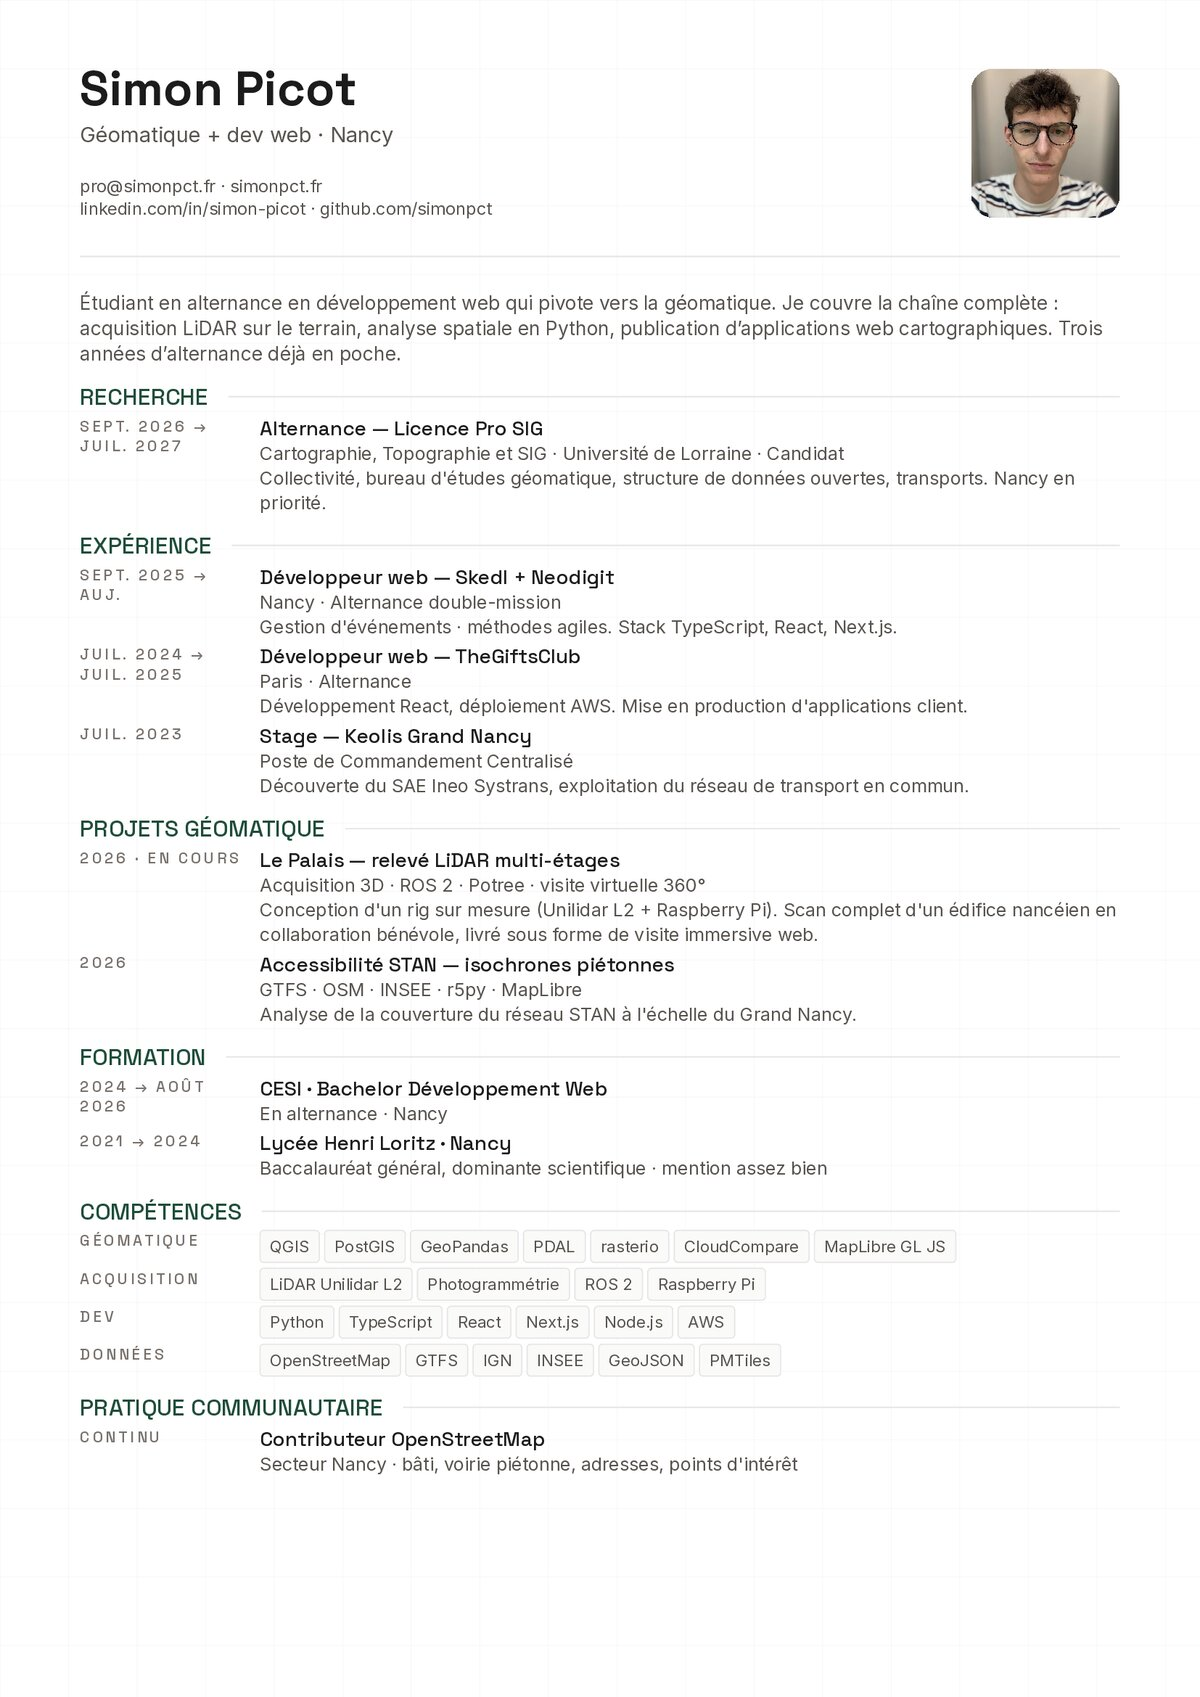
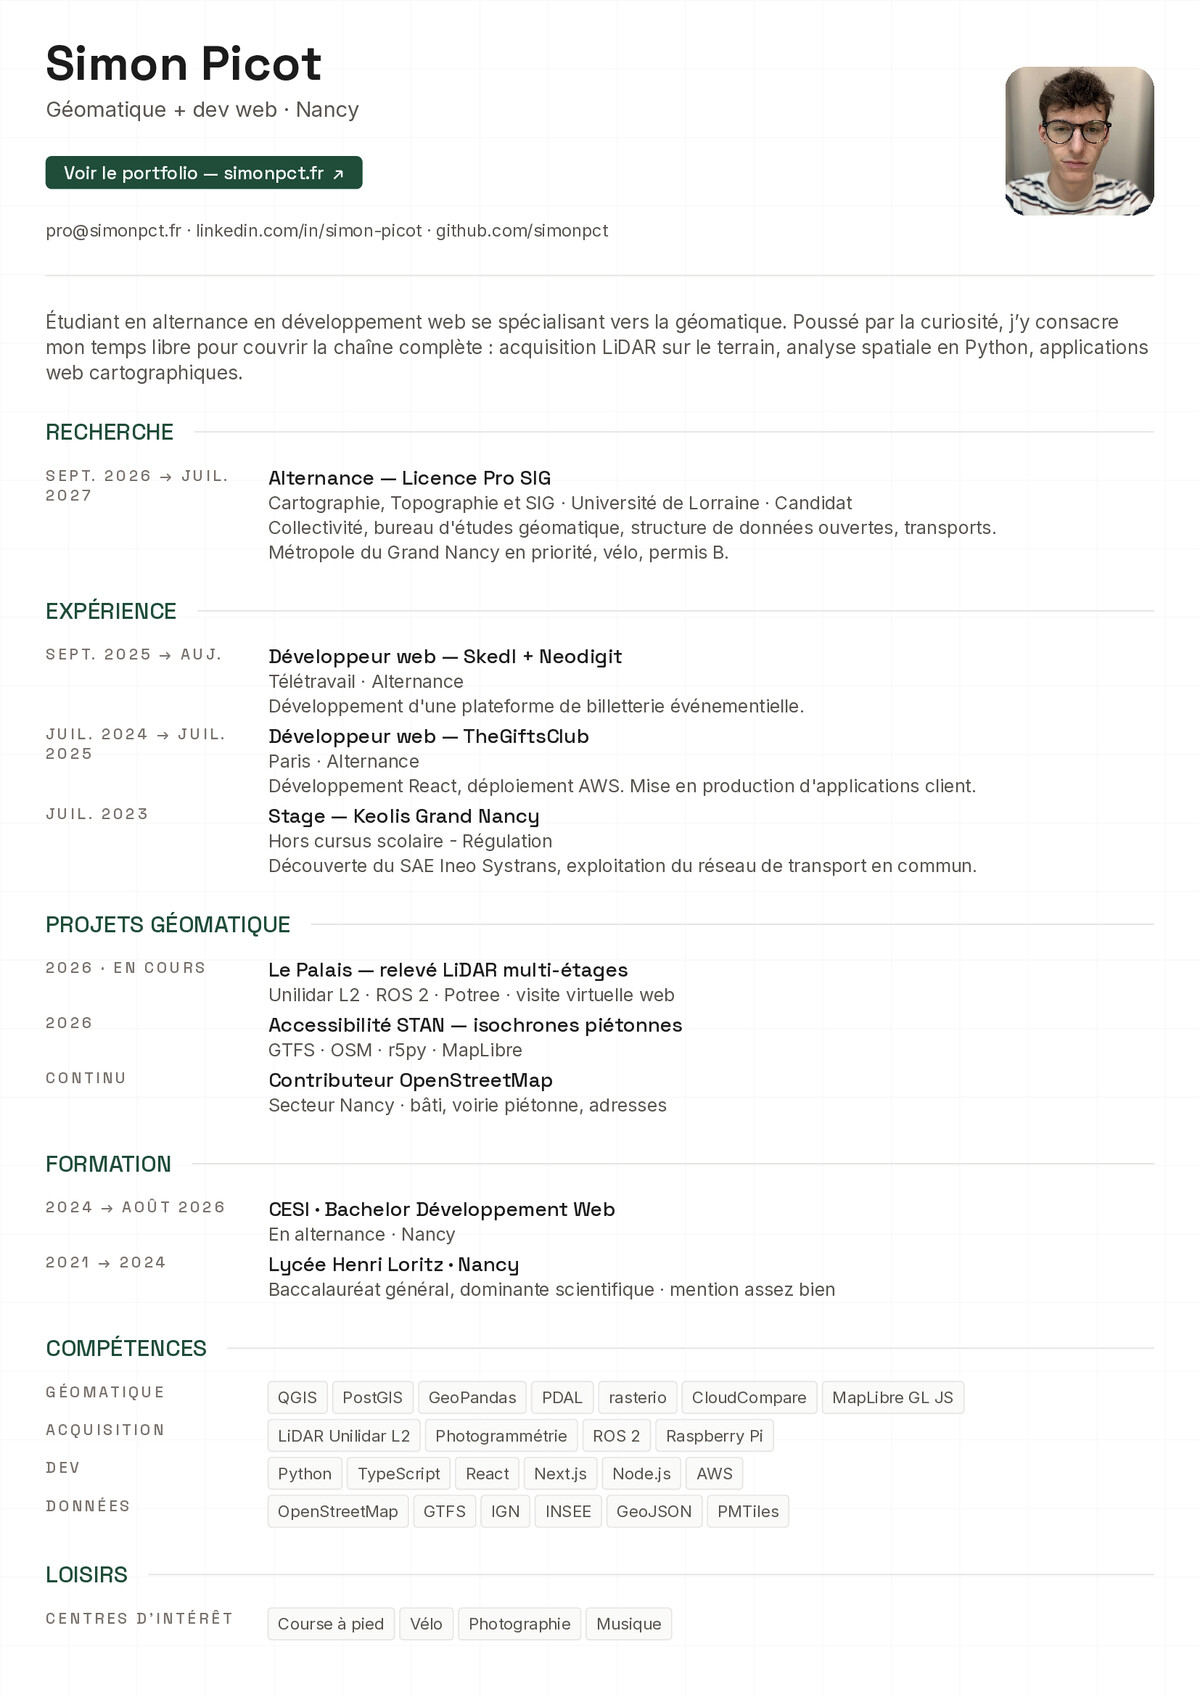
feat: update assets (og+cv preview)

diff --git a/src/app/layout.tsx b/src/app/layout.tsx
@@ -16,10 +16,37 @@ const spaceGrotesk = Space_Grotesk({
   display: "swap",
 });
 
+const siteUrl = "https://simonpct.fr";
+const siteTitle = "Simon Picot — Géomatique + dev web";
+const siteDescription =
+  "Étudiant en géomatique à Nancy. Acquisition LiDAR, analyse spatiale et applications cartographiques web.";
+
 export const metadata: Metadata = {
-  title: "Simon Picot — Géomatique + dev web",
-  description:
-    "Étudiant en géomatique à Nancy. Acquisition LiDAR, analyse spatiale et applications cartographiques web.",
+  metadataBase: new URL(siteUrl),
+  title: siteTitle,
+  description: siteDescription,
+  openGraph: {
+    type: "website",
+    locale: "fr_FR",
+    url: siteUrl,
+    siteName: "Simon Picot",
+    title: siteTitle,
+    description: siteDescription,
+    images: [
+      {
+        url: "/og-image.png",
+        width: 1200,
+        height: 300,
+        alt: "Simon Picot — Géomatique + dev web",
+      },
+    ],
+  },
+  twitter: {
+    card: "summary_large_image",
+    title: siteTitle,
+    description: siteDescription,
+    images: ["/og-image.png"],
+  },
 };
 
 export default function RootLayout({
